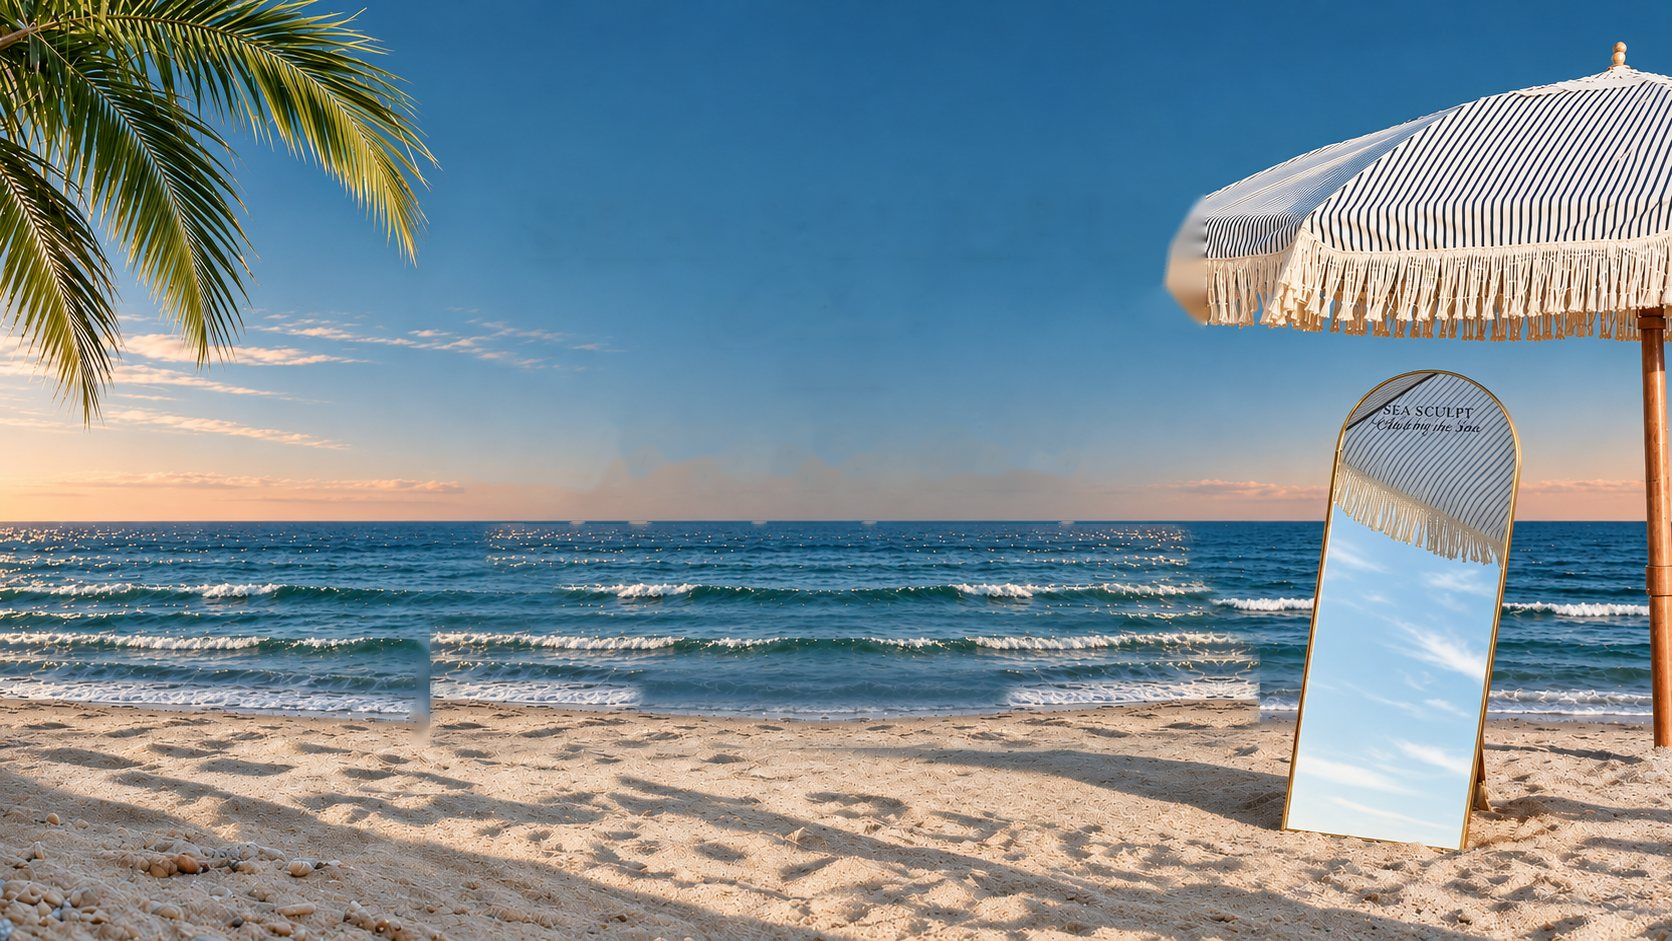
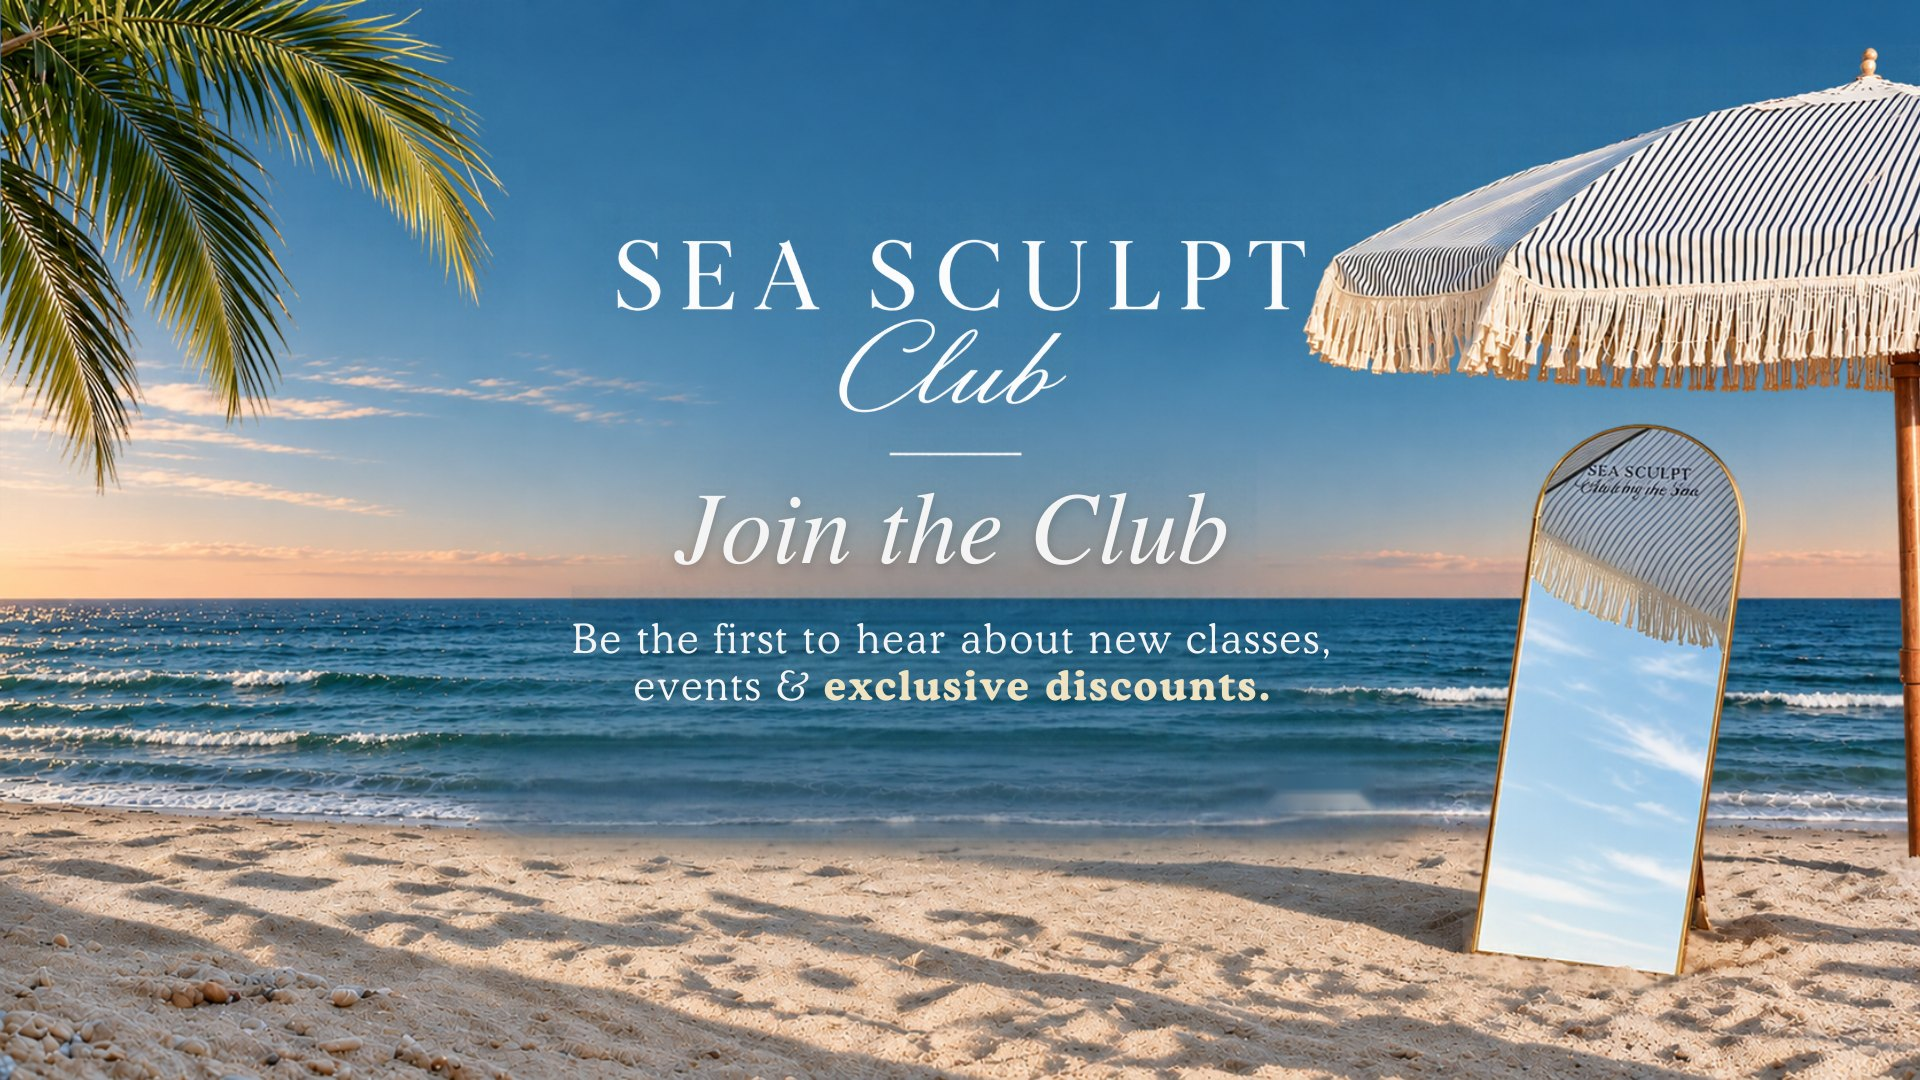
Join the Club popup: owner's artwork exactly, real email field + Join in the open space
Claude-Session: https://claude.ai/code/session_01N4co43Wj5cm1TpNkqiViwp

diff --git a/public/js/script.js b/public/js/script.js
@@ -133,7 +133,7 @@ function initFooterSignupForm() {
 }
 
 function initSignupPopup() {
-  var STORAGE_KEY = "seaSculptPopupV7";
+  var STORAGE_KEY = "seaSculptPopupV8";
   var DELAY_MS = 2500;
 
   var overlay = document.createElement("div");
@@ -142,11 +142,8 @@ function initSignupPopup() {
     '<div class="club-pop-card club-pop-beach" role="dialog" aria-modal="true" aria-labelledby="clubPopTitle">' +
       '<button type="button" class="signup-popup-close club-pop-close" aria-label="Close">&times;</button>' +
       '<div class="club-pop-inner">' +
-        '<p class="club-pop-brand" aria-hidden="true"><span class="club-pop-sea">Sea Sculpt</span><span class="club-pop-club">Club</span></p>' +
-        '<span class="club-pop-rule" aria-hidden="true"></span>' +
-        '<div class="club-pop-form-wrap">' +
-          '<h3 id="clubPopTitle">Join the Club</h3>' +
-          '<p class="club-pop-sub">Be the first to hear about new classes, events &amp; <strong>exclusive discounts.</strong></p>' +
+        '<div class="club-pop-form-wrap club-pop-box">' +
+          '<h3 id="clubPopTitle" class="club-pop-sr">Join the Club. Be the first to hear about new classes, events and exclusive discounts.</h3>' +
           '<form class="club-pop-form" novalidate>' +
             '<label class="club-pop-sr" for="clubPopEmail">Email address</label>' +
             '<input id="clubPopEmail" type="email" name="email" placeholder="Your email" autocomplete="email" required>' +
@@ -154,9 +151,8 @@ function initSignupPopup() {
           '</form>' +
           '<p class="club-pop-msg" role="alert"></p>' +
         '</div>' +
-        '<div class="club-pop-done" hidden>' +
-          '<h3>You&rsquo;re in.</h3>' +
-          '<p class="club-pop-sub">Welcome to the club. Watch your inbox for our next class and event.</p>' +
+        '<div class="club-pop-done club-pop-box" hidden>' +
+          '<p class="club-pop-done-text">You&rsquo;re in. Welcome to the club!</p>' +
         '</div>' +
         '<a href="classes.html#events" class="club-pop-find">Ready to move? Find your class &rarr;</a>' +
       '</div>' +

diff --git a/public/css/coastal.css b/public/css/coastal.css
@@ -998,3 +998,24 @@ header .nav-dropdown-menu a{text-shadow:none !important;}
   .club-pop-beach .club-pop-form input{padding:13px 20px;text-align:center;}
   .club-pop-beach .club-pop-form button{padding:14px;}
 }
+/* ---------- Join the Club popup v3: owner's artwork, real form in the open space ---------- */
+.club-pop .club-pop-card.club-pop-beach{aspect-ratio:1920/1080;background-image:url("../assets/join-club-beach.jpg?v=3");background-position:center;background-size:cover;}
+.club-pop-beach .club-pop-inner{position:relative;padding:0;}
+.club-pop-beach .club-pop-box{position:absolute;left:50%;top:68.5%;transform:translateX(-50%);width:42%;}
+.club-pop-beach .club-pop-form{max-width:none;gap:2.2%;}
+.club-pop-beach .club-pop-form input{background:rgba(18,49,79,.18);border-width:1.5px;}
+.club-pop-beach .club-pop-msg{position:absolute;left:50%;transform:translateX(-50%);top:calc(100% + 8px);white-space:nowrap;}
+.club-pop-beach .club-pop-done-text{margin:0;font-family:'Cormorant Garamond',serif;font-style:italic;font-size:clamp(1.3rem,2.6vw,2rem);color:#fff;text-shadow:0 2px 14px rgba(10,35,70,.55);text-align:center;}
+.club-pop-beach .club-pop-find{position:absolute;left:50%;bottom:3.5%;transform:translateX(-50%);margin:0;white-space:nowrap;}
+@media (max-width:640px){
+  .club-pop .club-pop-card.club-pop-beach{aspect-ratio:3/4;min-height:0;width:min(420px,calc(100vw - 24px));background-position:50% center;}
+  .club-pop-beach .club-pop-inner{padding:0;}
+  .club-pop-beach .club-pop-box{top:67%;width:86%;}
+  .club-pop-beach .club-pop-form{flex-direction:row;gap:8px;}
+  .club-pop-beach .club-pop-form input{padding:12px 16px;text-align:left;font-size:1.05rem;}
+  .club-pop-beach .club-pop-form button{padding:0 18px 0 calc(18px + .32em);}
+}
+.club-pop-beach .club-pop-box{width:49%;top:69%;}
+.club-pop-beach .club-pop-form input{flex:1 1 auto;}
+.club-pop-beach .club-pop-form button{flex:0 0 23%;padding:0;padding-left:.32em;}
+@media (max-width:640px){ .club-pop-beach .club-pop-box{top:70%;width:86%;} .club-pop-beach .club-pop-form button{flex:0 0 30%;} }

diff --git a/public/blog.html b/public/blog.html
@@ -22,7 +22,7 @@
 <link rel="preconnect" href="https://fonts.gstatic.com" crossorigin>
 <link href="https://fonts.googleapis.com/css2?family=Cormorant+Garamond:ital,wght@0,400;0,500;0,600;1,400;1,500&family=Playfair+Display:ital,wght@0,500;1,500&family=Parisienne&family=Jost:wght@300;400;500;600&display=swap" rel="stylesheet">
 <link rel="stylesheet" href="css/style.css?v=cf7">
-<link rel="stylesheet" href="css/coastal.css?v=cf27">
+<link rel="stylesheet" href="css/coastal.css?v=cf28">
 <meta property="og:type" content="website">
 <meta property="og:site_name" content="Sea Sculpt Club">
 <meta property="og:url" content="https://seasculptclub.com/blog">
@@ -143,7 +143,7 @@
     </div>
   </div>
 </footer>
-<script src="js/script.js?v=cf9"></script>
+<script src="js/script.js?v=cf10"></script>
 <script>
   fetch('/api/get-posts')
     .then(function (r) { return r.json(); })

diff --git a/public/classes.html b/public/classes.html
@@ -22,7 +22,7 @@
 <link rel="preconnect" href="https://fonts.gstatic.com" crossorigin>
 <link href="https://fonts.googleapis.com/css2?family=Cormorant+Garamond:ital,wght@0,400;0,500;0,600;1,400;1,500&family=Parisienne&family=Jost:wght@300;400;500;600&display=swap" rel="stylesheet">
 <link rel="stylesheet" href="css/style.css?v=cf7">
-<link rel="stylesheet" href="css/coastal.css?v=cf27">
+<link rel="stylesheet" href="css/coastal.css?v=cf28">
 <meta property="og:type" content="website">
 <meta property="og:site_name" content="Sea Sculpt Club">
 <meta property="og:url" content="https://seasculptclub.com/classes">
@@ -422,7 +422,7 @@
     </div>
   </div>
 </footer>
-<script src="js/script.js?v=cf9"></script>
+<script src="js/script.js?v=cf10"></script>
 <script src="js/dates.js?v=cf7"></script>
 <script src="js/cart.js?v=cf19" defer></script>
 </body>

diff --git a/public/buy.html b/public/buy.html
@@ -22,7 +22,7 @@
 <link rel="preconnect" href="https://fonts.gstatic.com" crossorigin>
 <link href="https://fonts.googleapis.com/css2?family=Cormorant+Garamond:ital,wght@0,400;0,500;0,600;1,400;1,500&family=Parisienne&family=Jost:wght@300;400;500;600&display=swap" rel="stylesheet">
 <link rel="stylesheet" href="css/style.css?v=cf7">
-<link rel="stylesheet" href="css/coastal.css?v=cf27">
+<link rel="stylesheet" href="css/coastal.css?v=cf28">
 <meta property="og:type" content="website">
 <meta property="og:site_name" content="Sea Sculpt Club">
 <meta property="og:url" content="https://seasculptclub.com/buy">
@@ -262,7 +262,7 @@
     </div>
   </div>
 </footer>
-<script src="js/script.js?v=cf9"></script>
+<script src="js/script.js?v=cf10"></script>
 <script src="js/dates.js?v=cf7"></script>
 <script src="js/cart.js?v=cf19" defer></script>
 </body>

diff --git a/public/index.html b/public/index.html
@@ -22,7 +22,7 @@
 <link rel="preconnect" href="https://fonts.gstatic.com" crossorigin>
 <link href="https://fonts.googleapis.com/css2?family=Cormorant+Garamond:ital,wght@0,400;0,500;0,600;1,400;1,500&family=Parisienne&family=Jost:wght@300;400;500;600&display=swap" rel="stylesheet">
 <link rel="stylesheet" href="css/style.css?v=cf7">
-<link rel="stylesheet" href="css/coastal.css?v=cf27">
+<link rel="stylesheet" href="css/coastal.css?v=cf28">
 <meta property="og:type" content="website">
 <meta property="og:site_name" content="Sea Sculpt Club">
 <meta property="og:url" content="https://seasculptclub.com/">
@@ -322,7 +322,7 @@
     </div>
   </div>
 </footer>
-<script src="js/script.js?v=cf9"></script>
+<script src="js/script.js?v=cf10"></script>
 <script src="js/dates.js?v=cf7"></script>
 <script src="js/cart.js?v=cf19" defer></script>
 </body>

diff --git a/public/bachelorette.html b/public/bachelorette.html
@@ -22,7 +22,7 @@
 <link rel="preconnect" href="https://fonts.gstatic.com" crossorigin>
 <link href="https://fonts.googleapis.com/css2?family=Cormorant+Garamond:ital,wght@0,400;0,500;0,600;1,400;1,500&family=Parisienne&family=Jost:wght@300;400;500;600&display=swap" rel="stylesheet">
 <link rel="stylesheet" href="css/style.css?v=cf7">
-<link rel="stylesheet" href="css/coastal.css?v=cf27">
+<link rel="stylesheet" href="css/coastal.css?v=cf28">
 <meta property="og:type" content="website">
 <meta property="og:site_name" content="Sea Sculpt Club">
 <meta property="og:url" content="https://seasculptclub.com/bachelorette">
@@ -254,7 +254,7 @@
     </div>
   </div>
 </footer>
-<script src="js/script.js?v=cf9"></script>
+<script src="js/script.js?v=cf10"></script>
 <script src="js/cart.js?v=cf19" defer></script>
 </body>
 </html>

diff --git a/public/collaborate.html b/public/collaborate.html
@@ -22,7 +22,7 @@
 <link rel="preconnect" href="https://fonts.gstatic.com" crossorigin>
 <link href="https://fonts.googleapis.com/css2?family=Cormorant+Garamond:ital,wght@0,400;0,500;0,600;1,400;1,500&family=Parisienne&family=Jost:wght@300;400;500;600&display=swap" rel="stylesheet">
 <link rel="stylesheet" href="css/style.css?v=cf7">
-<link rel="stylesheet" href="css/coastal.css?v=cf27">
+<link rel="stylesheet" href="css/coastal.css?v=cf28">
 <meta property="og:type" content="website">
 <meta property="og:site_name" content="Sea Sculpt Club">
 <meta property="og:url" content="https://seasculptclub.com/collaborate">
@@ -327,7 +327,7 @@
     </div>
   </div>
 </footer>
-<script src="js/script.js?v=cf9"></script>
+<script src="js/script.js?v=cf10"></script>
 <script src="js/cart.js?v=cf19" defer></script>
 </body>
 </html>

diff --git a/public/privates.html b/public/privates.html
@@ -22,7 +22,7 @@
 <link rel="preconnect" href="https://fonts.gstatic.com" crossorigin>
 <link href="https://fonts.googleapis.com/css2?family=Cormorant+Garamond:ital,wght@0,400;0,500;0,600;1,400;1,500&family=Parisienne&family=Jost:wght@300;400;500;600&display=swap" rel="stylesheet">
 <link rel="stylesheet" href="css/style.css?v=cf7">
-<link rel="stylesheet" href="css/coastal.css?v=cf27">
+<link rel="stylesheet" href="css/coastal.css?v=cf28">
 <meta property="og:type" content="website">
 <meta property="og:site_name" content="Sea Sculpt Club">
 <meta property="og:url" content="https://seasculptclub.com/privates">
@@ -259,7 +259,7 @@
     </div>
   </div>
 </footer>
-<script src="js/script.js?v=cf9"></script>
+<script src="js/script.js?v=cf10"></script>
 <script src="js/cart.js?v=cf19" defer></script>
 </body>
 </html>

diff --git a/public/wellness.html b/public/wellness.html
@@ -22,7 +22,7 @@
 <link rel="preconnect" href="https://fonts.gstatic.com" crossorigin>
 <link href="https://fonts.googleapis.com/css2?family=Cormorant+Garamond:ital,wght@0,400;0,500;0,600;1,400;1,500&family=Parisienne&family=Jost:wght@300;400;500;600&display=swap" rel="stylesheet">
 <link rel="stylesheet" href="css/style.css?v=cf7">
-<link rel="stylesheet" href="css/coastal.css?v=cf27">
+<link rel="stylesheet" href="css/coastal.css?v=cf28">
 <meta property="og:type" content="website">
 <meta property="og:site_name" content="Sea Sculpt Club">
 <meta property="og:url" content="https://seasculptclub.com/wellness">
@@ -176,7 +176,7 @@
     </div>
   </div>
 </footer>
-<script src="js/script.js?v=cf9"></script>
+<script src="js/script.js?v=cf10"></script>
 <script src="js/cart.js?v=cf19" defer></script>
 </body>
 </html>

diff --git a/public/account.html b/public/account.html
@@ -23,7 +23,7 @@
 <link rel="preconnect" href="https://fonts.gstatic.com" crossorigin>
 <link href="https://fonts.googleapis.com/css2?family=Cormorant+Garamond:ital,wght@0,400;0,500;0,600;1,400;1,500&family=Parisienne&family=Jost:wght@300;400;500;600&display=swap" rel="stylesheet">
 <link rel="stylesheet" href="css/style.css?v=cf7">
-<link rel="stylesheet" href="css/coastal.css?v=cf27">
+<link rel="stylesheet" href="css/coastal.css?v=cf28">
 <meta property="og:type" content="website">
 <meta property="og:site_name" content="Sea Sculpt Club">
 <meta property="og:url" content="https://seasculptclub.com/account">
@@ -500,7 +500,7 @@
     </div>
   </div>
 </footer>
-<script src="js/script.js?v=cf9"></script>
+<script src="js/script.js?v=cf10"></script>
 <script src="js/cart.js?v=cf19" defer></script>
 </body>
 </html>

diff --git a/public/contact.html b/public/contact.html
@@ -22,7 +22,7 @@
 <link rel="preconnect" href="https://fonts.gstatic.com" crossorigin>
 <link href="https://fonts.googleapis.com/css2?family=Cormorant+Garamond:ital,wght@0,400;0,500;0,600;1,400;1,500&family=Parisienne&family=Jost:wght@300;400;500;600&display=swap" rel="stylesheet">
 <link rel="stylesheet" href="css/style.css?v=cf7">
-<link rel="stylesheet" href="css/coastal.css?v=cf27">
+<link rel="stylesheet" href="css/coastal.css?v=cf28">
 <meta property="og:type" content="website">
 <meta property="og:site_name" content="Sea Sculpt Club">
 <meta property="og:url" content="https://seasculptclub.com/contact">
@@ -182,7 +182,7 @@
     </div>
   </div>
 </footer>
-<script src="js/script.js?v=cf9"></script>
+<script src="js/script.js?v=cf10"></script>
 <script src="js/cart.js?v=cf19" defer></script>
 </body>
 </html>
